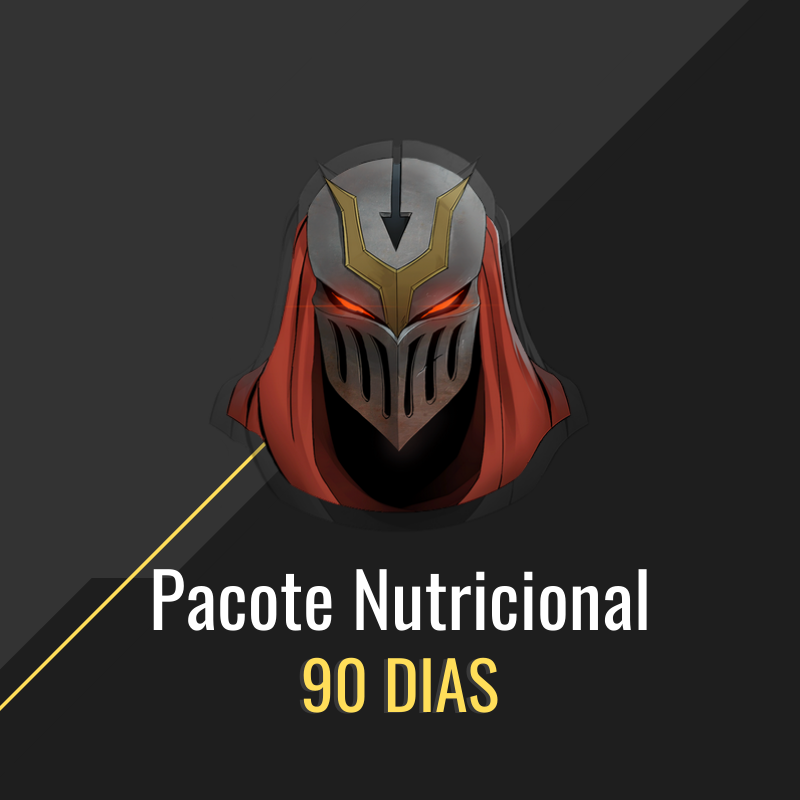
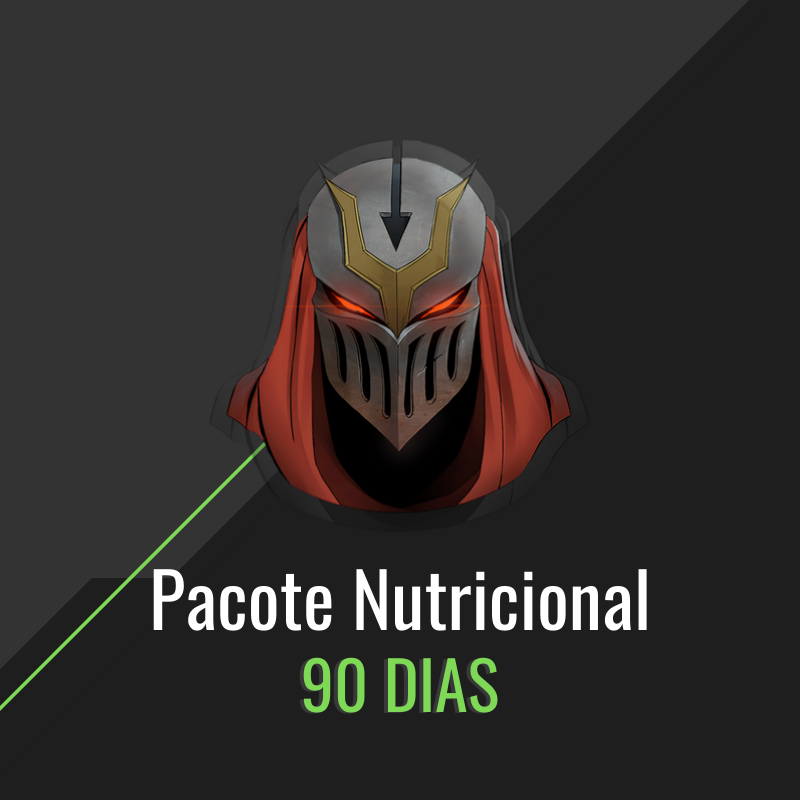
store fix

diff --git a/src/pages/store.html b/src/pages/store.html
@@ -50,26 +50,34 @@
             data-aos-duration="900"
       >
         <div class="coach">
-          <img src="../images/c-30.png" class="planos-n" />
-          <h3>Plano Mensal</h3>
+          <img src="../images/c-30.png" class="planos-c" />
+          <h3>Mensal</h3>
           <div class="centerme">
-            <span><s>R$270</s> <b>R$200</b> | Duração de 30 dias.</span>
+            <span><s>R$270</s> <b>R$220</b></span>
           </div>
           <br><button class="buy-btn"><a rel='noopener noreferrer' target='_blank' href="https://www.asaas.com/c/711025036817"><span id="legenda">Comprar</span></a></button>
         </div>
         <div class="coach">
-          <img src="../images/c-90.png" class="planos-n" />
-          <h3>Plano Trimestral</h3>
+          <img src="../images/c-60.png" class="planos-c" />
+          <h3>Bimestral</h3>
           <div class="centerme">
-          <span><s>R$810</s> <b>R$540</b> | Duração de 90 dias.</span>
+            <span><s>R$540</s> <b>R$390</b></span>
+          </div>
+          <br><button class="buy-btn"><a rel='noopener noreferrer' target='_blank' href="https://www.asaas.com/c/745846759025"><span id="legenda">Comprar</span></a></button>
+        </div>
+        <div class="coach">
+          <img src="../images/c-90.png" class="planos-c" />
+          <h3>Trimestral</h3>
+          <div class="centerme">
+          <span><s>R$810</s> <b>R$540</b></span>
           </div>
           <br><button class="buy-btn"><a rel='noopener noreferrer' target='_blank' href="https://www.asaas.com/c/485150834156"><span id="legenda">Comprar</span></a></button>
         </div>
         <div class="coach">
-          <img src="../images/c-180.png" class="planos-n" />
-          <h3>Plano Semestral</h3>
+          <img src="../images/c-180.png" class="planos-c" />
+          <h3>Semestral</h3>
           <div class="centerme">
-            <span><s>R$1620</s> <b>R$960</b> | Duração de 180 dias.</span>
+            <span><s>R$1620</s> <b>R$960</b></span>
           </div>
           <br><button class="buy-btn"><a rel='noopener noreferrer' target='_blank' href="https://www.asaas.com/c/943779820385"><span id="legenda">Comprar</span></a></button>
         </div>
@@ -85,7 +93,7 @@
           data-aos="fade-up"
           data-aos-delay="200"
           data-aos-duration="900"
-      >Dieta, suplementação e acompanhamento.
+      >Dieta, suplementação e acompanhamento com <a id="legenda2" target=_blank href="https://instagram.com/zq1fit">Eduardo Zaqueu</a>.
       </p>
       <div class="box-loja">
         <div class="coach-container"
@@ -95,25 +103,25 @@
         >
           <div class="coach">
             <img src="../images/n-30.png" class="planos-n" />
-            <h3>Plano Mensal</h3>
+            <h3>Mensal</h3>
             <div class="centerme">
-              <span><b>R$150</b> | Duração de 30 dias.</span>
+              <span><b>R$150</b></span>
             </div>
             <br><button class="buy-btn"><a rel='noopener noreferrer' target='_blank' href="https://www.asaas.com/c/532279160494"><span id="legenda"><i class="bi bi-cart-check-fill"></i>Comprar</span></a></button>
           </div>
           <div class="coach">
             <img src="../images/n-90.png" class="planos-n" />
-            <h3>Plano Trimestral</h3>
+            <h3>Trimestral</h3>
             <div class="centerme">
-            <span><s>R$450</s> <b>R$390</b> | Duração de 90 dias.</span>
+            <span><s>R$450</s> <b>R$390</b></span>
             </div>
             <br><button class="buy-btn"><a rel='noopener noreferrer' target='_blank' href="https://www.asaas.com/c/782414583894"><span id="legenda">Comprar</span></a></button>
           </div>
           <div class="coach">
             <img src="../images/n-180.png" class="planos-n" />
-            <h3>Plano Semestral</h3>
+            <h3>Semestral</h3>
             <div class="centerme">
-              <span><s>R$900</s> <b>R$720</b> | Duração de 180 dias.</span>
+              <span><s>R$900</s> <b>R$720</b></span>
             </div>
             <br><button class="buy-btn"><a rel='noopener noreferrer' target='_blank' href="https://www.asaas.com/c/745830677777"><span id="legenda">Comprar</span></a></button>
           </div>
@@ -129,7 +137,7 @@
           data-aos="fade-up"
           data-aos-delay="200"
           data-aos-duration="900"
-      >Fichas de treino, periodização e acompanhamento.
+      >Fichas de treino, periodização e acompanhamento com <a id="legenda2" target=_blank href="https://instagram.com/vanderleimoraespro">Vanderlei Moraes</a>.
       </p>
       <div class="box-loja">
         <div class="coach-container"
@@ -138,26 +146,26 @@
             data-aos-duration="900"
         >
           <div class="coach">
-            <img src="../images/t-30.png" class="planos-n" />
-            <h3>Plano Mensal</h3>
+            <img src="../images/t-30.png" class="planos-t" />
+            <h3>Bimestral</h3>
             <div class="centerme">
-              <span><b>R$120</b> | Duração de 30 dias.</span>
+              <span><b>R$200</b></span>
             </div>
             <br><button class="buy-btn"><a rel='noopener noreferrer' target='_blank' href="https://www.asaas.com/c/293170056329"><span id="legenda">Comprar</span></a></button>
           </div>
           <div class="coach">
-            <img src="../images/t-90.png" class="planos-n" />
-            <h3>Plano Trimestral</h3>
+            <img src="../images/t-90.png" class="planos-t" />
+            <h3>Trimestral</h3>
             <div class="centerme">
-            <span><s>R$360</s> <b>R$300</b> | Duração de 90 dias.</span>
+            <span><s>R$360</s> <b>R$280</b></span>
             </div>
             <br><button class="buy-btn"><a rel='noopener noreferrer' target='_blank' href="https://www.asaas.com/c/253151747947"><span id="legenda">Comprar</span></a></button>
           </div>
           <div class="coach">
-            <img src="../images/t-180.png" class="planos-n" />
-            <h3>Plano Semestral</h3>
+            <img src="../images/t-180.png" class="planos-t" />
+            <h3>Semestral</h3>
             <div class="centerme">
-              <span><s>R$720</s> <b>R$540</b> | Duração de 180 dias.</span>
+              <span><s>R$720</s> <b>R$500</b></span>
             </div>
             <br><button class="buy-btn"><a rel='noopener noreferrer' target='_blank' href="https://www.asaas.com/c/029797451627"><span id="legenda">Comprar</span></a></button>
           </div>

diff --git a/src/css/store.style.css b/src/css/store.style.css
@@ -34,6 +34,25 @@ header2 {
   color: white;
 }
 
+.coach-container {
+  width: 100vw;
+  max-width: 100vw;
+  display: flex;
+  align-items: center;
+  justify-content: space-between;
+  padding: 1rem;
+}
+
+.coach {
+  margin: 0 1rem;
+  padding: 0 1rem;
+  width: 250px;
+  display: flex;
+  flex-direction: column;
+  align-items: center;
+  justify-content: center;
+}
+
 .buy-btn {
   background-color: #e96029;
   border-color: transparent;
@@ -48,25 +67,56 @@ header2 {
   background-color: #913c1b;
 }
 
+.planos-c {
+  height: 13.5rem;
+  width: 13.5rem;
+  transition: 0.4s;
+  border-radius: 10px;
+  box-shadow:  5px 5px 0px  #C9E265,  /*right*/
+                -5px -5px 0px rgb(34, 34, 34); /*left*/
+}
+
+.planos-c:hover {
+  transform: scale(0.95);
+  box-shadow:  15px 15px 0px rgb(201, 226, 101, 0.5),  /*right*/
+                -15px -15px 0px  rgb(34, 34, 34, 0.5); /*left*/
+}
+
 .planos-n {
   height: 13.5rem;
   width: 13.5rem;
   transition: 0.4s;
   border-radius: 10px;
-  box-shadow:  5px 5px 0px  rgb(233, 96, 41),  /*right*/
+  box-shadow:  5px 5px 0px  #7ED956,  /*right*/
                 -5px -5px 0px rgb(34, 34, 34); /*left*/
 }
 
 .planos-n:hover {
   transform: scale(0.95);
-  box-shadow:  15px 15px 0px rgb(233, 96, 41, 0.5),  /*right*/
+  box-shadow:  15px 15px 0px rgb(126, 217, 86, 0.5),  /*right*/
+                -15px -15px 0px  rgb(34, 34, 34, 0.5); /*left*/
+}
+
+.planos-t {
+  height: 13.5rem;
+  width: 13.5rem;
+  transition: 0.4s;
+  border-radius: 10px;
+  box-shadow:  5px 5px 0px  #C66AE0,  /*right*/
+                -5px -5px 0px rgb(34, 34, 34); /*left*/
+}
+
+.planos-t:hover {
+  transform: scale(0.95);
+  box-shadow:  15px 15px 0px rgb(198, 106, 224, 0.5),  /*right*/
                 -15px -15px 0px  rgb(34, 34, 34, 0.5); /*left*/
 }
 
 .box-loja {
   margin-top: 5.5rem;
-  padding: 3rem;
-  width: 100vw;
+  padding: 4rem 1rem;
+  width: 100%;
+  max-width: 100vw;
   display: flex;
   flex-direction: column;
   justify-content: center;

diff --git a/src/css/mobile.css b/src/css/mobile.css
@@ -115,7 +115,7 @@
 }
 
 /* 500w --------------------------------------------------------------------------------------------------------------------------------*/
-@media (max-width: 500px) {
+@media (max-width: 600px) {
 
   header {
     position: fixed;
